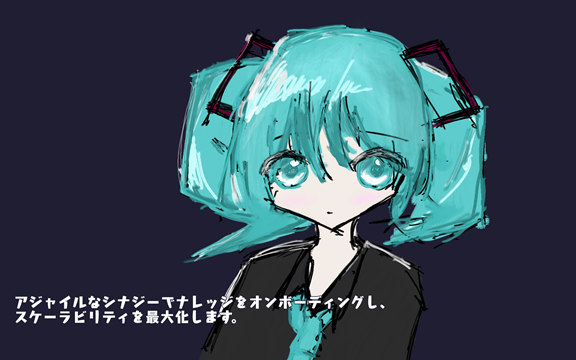
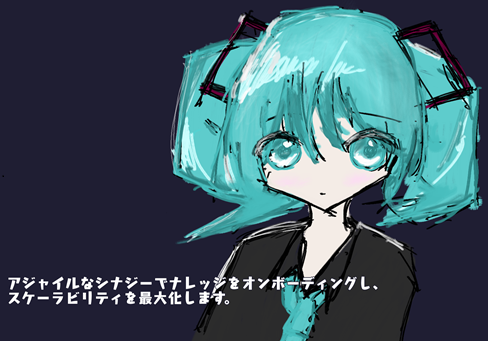
img responsible

diff --git a/css/style.css b/css/style.css
@@ -130,3 +130,9 @@ hr {
     background-color: #494f52;
     border: none;
 }
+
+img {
+    width: 50vw;
+    max-width: 570px;
+    height: auto;
+}
